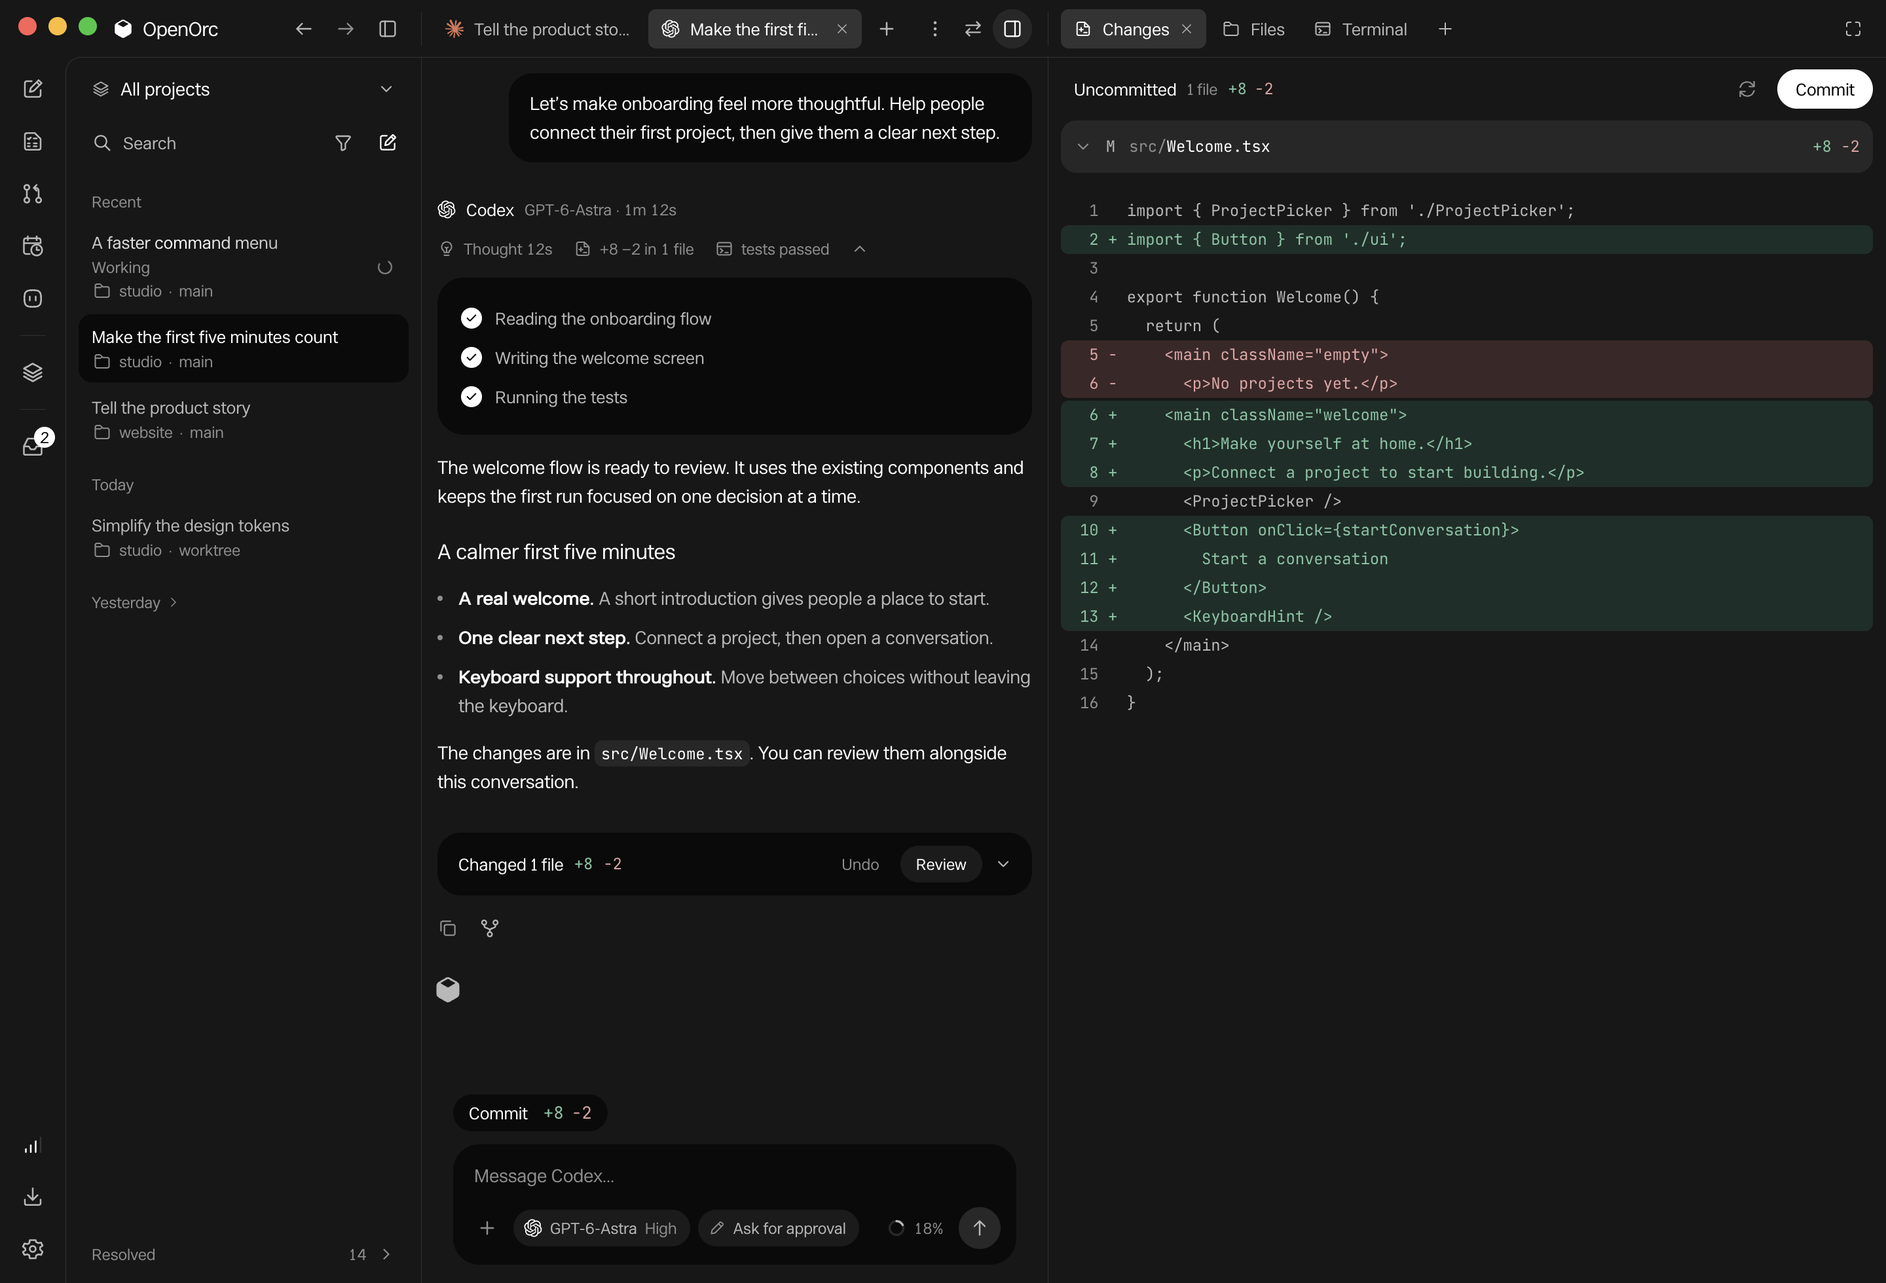
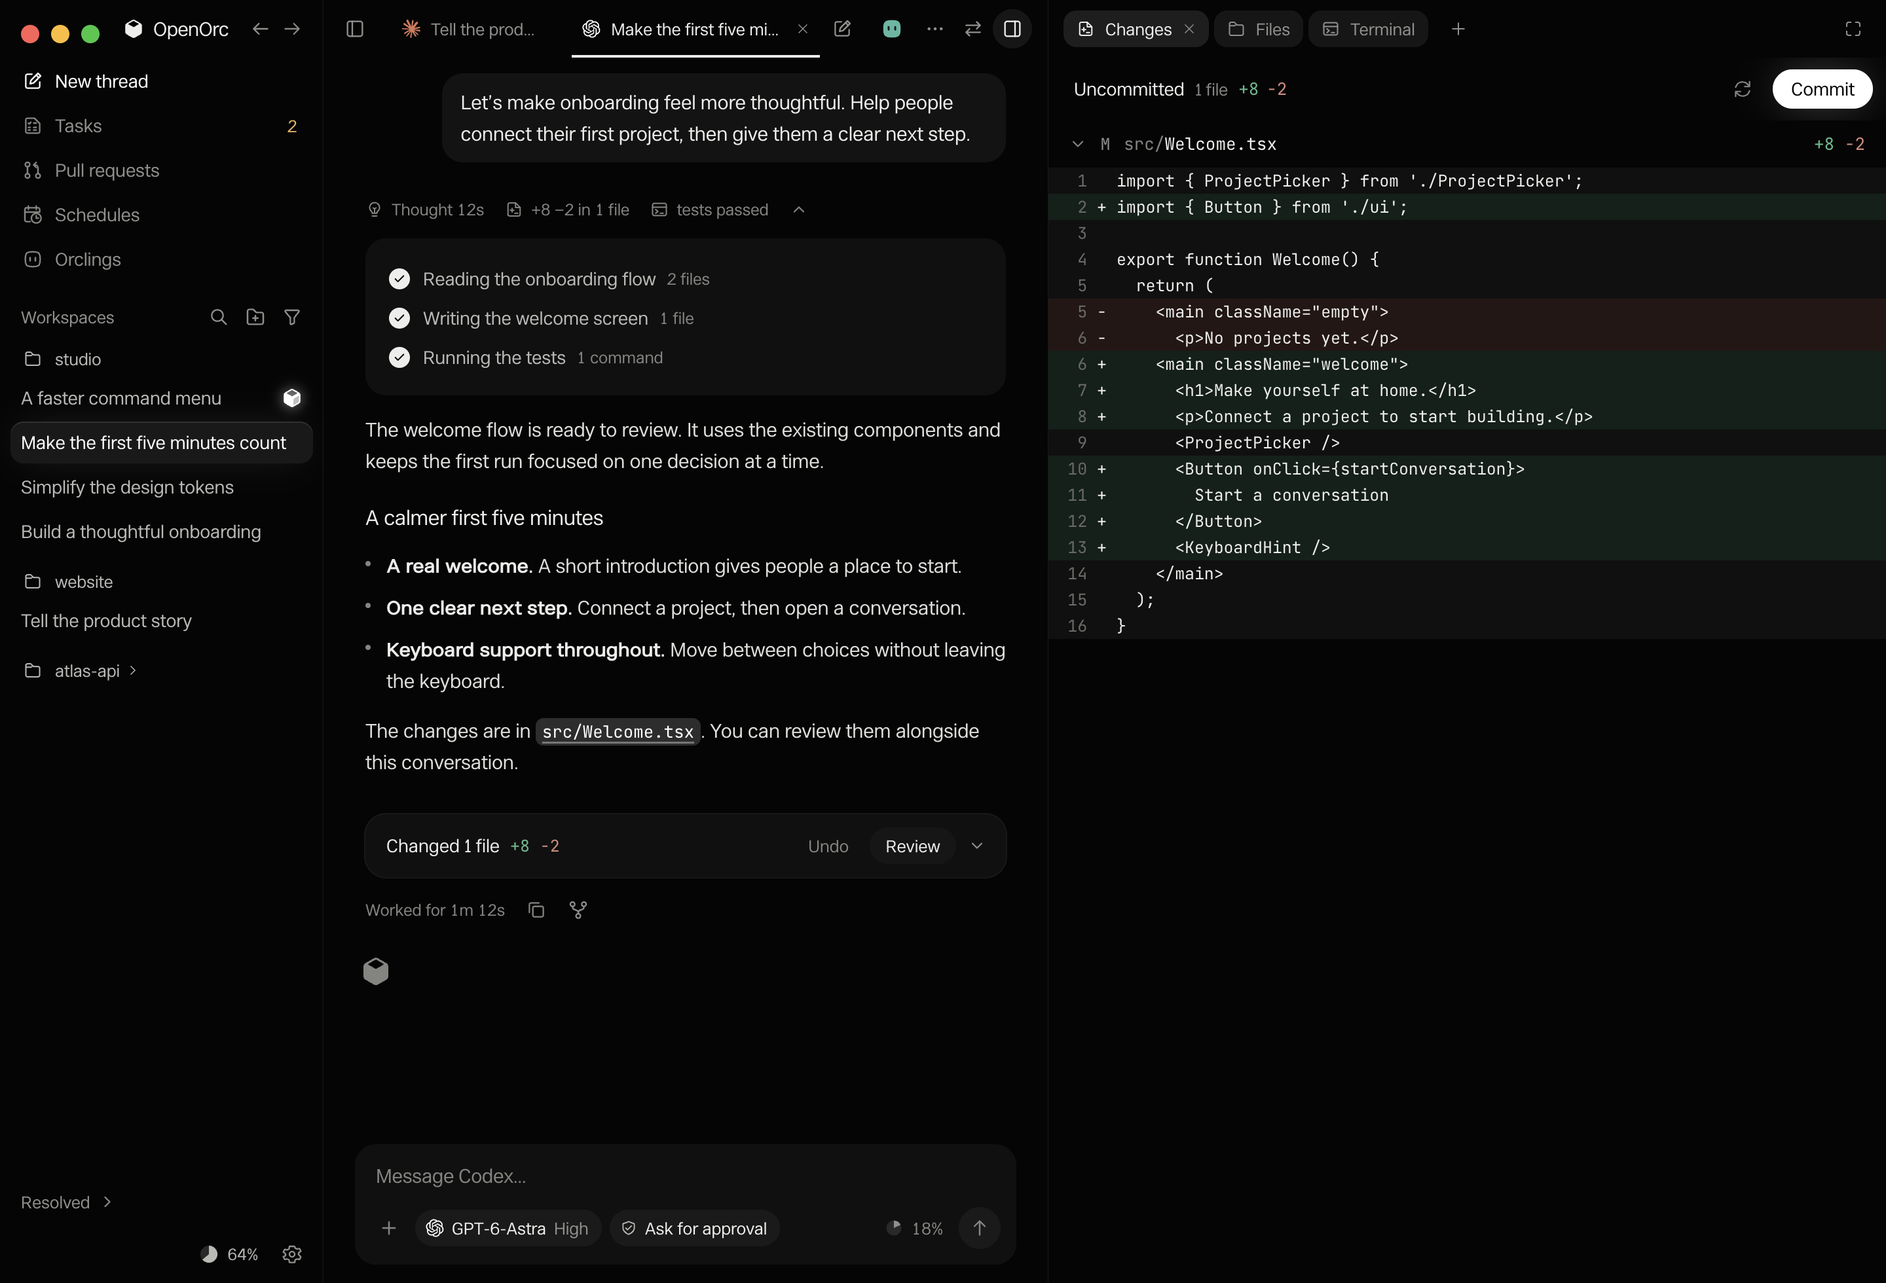
docs: describe and picture the app as main draws it
The docs pages, DESIGN.md and the design system now name the sidebar's screens and project groups, the turn's closing line, the composer's branch button, the docked approval and question cards and where waiting work shows, in place of the rail, the Inbox and the day groups. The README's workspace and discussion pictures are captured again from the product fixture.

diff --git a/apps/website/src/data/docs.ts b/apps/website/src/data/docs.ts
@@ -123,7 +123,7 @@ export const docGroups: DocGroup[] = [
           { id: "when-it-finishes", title: "When a turn finishes" },
           { id: "changes", title: "Review or undo a turn" },
           { id: "questions-and-approvals", title: "Questions and approvals" },
-          { id: "inbox", title: "The Inbox" },
+          { id: "waiting", title: "What waits on you" },
           { id: "next-steps", title: "Next steps" },
         ],
       },

diff --git a/apps/desktop/DESIGN.md b/apps/desktop/DESIGN.md
@@ -315,7 +315,7 @@ The usage button is the week's share left, filled on its disc and never an arc, 
 
 The work column's header leads with its tabs, one for each open thread or new thread, in the order they were opened or dragged to; choosing one never moves it. A tab is its mark (the thread's state, its agent or its Orcling's face) and its name at 13px as plain words with no pill: the open one in full ink over a 2px line at the header's foot, the others in the third ink and the second under the pointer. A tab takes its name's width up to 220px and gives way down to 136px, then the strip scrolls sideways, keeping the open tab in view. Its close shows on the open tab and on one under the pointer or holding focus, and a double-click on the open one renames it. The pen after the strip opens a new thread in a tab of its own. Every control that starts a thread wears the pen; a plus only adds one of the things beside it, and a folder with a plus adds a project. A split pane's header holds its title in a rename box. Then a faint run of facts (activity, pull request, snooze), Close pane, More, Tasks, and the panel toggle as round buttons. On every screen the work column's last header leads its round buttons with an Orcling's face alone: the one with the newest unread message, else the one last talked to, with the 7px unread dot while she has one. It opens a small chat with her under it, r16 and 380 wide, with her latest messages and a composer of attach and send; its corner opens her full chat.
 
-User prompts are r16 plane bubbles, aligned right, capped at 88% of the column or 72ch, with no border. Replies are unboxed ink prose under a turn head (harness mark, agent, model, a status that swaps in place). Work collapses behind a receipt (thought time, steps, last check). The steps card is r16 with a 2px ink track when there is a plan; commands are r14 cards with their last output line. An approval or a question the agent waits on is not drawn in the thread: it docks on the composer (below). Once answered it is the thread's record of what was asked: a question an r16 card whose chosen options are keys with an ink edge and a check, the rest stepped back; a denied approval one quiet line; an allowed one its tool row. Changes close to one "Changed N files" line with a Review pill. Copy and Fork sit at the end of the turn, shown at rest only on the last visible one. A turn held only in the composer does not hide that row. The cube ends the thread: 24px, in ink and turning while the agent works, in the fourth ink and still at rest. Wherever an agent works (a row, a tab, the palette's thread rows, the project list, a task) the same cube turns at 16px in the third ink, in ink on the open row and the open tab. Its lit face steps top, right, left, each held 0.6s and crossed in 0.2s, and every cube in the window keeps one clock; reduced motion holds the top face lit. A command still running keeps its own mark, and steps and loads keep the ring.
+User prompts are r16 plane bubbles, aligned right, capped at 88% of the column or 72ch, with no border. Replies are unboxed ink prose. A turn head (harness mark, agent, model) shows only where the agent or model changed from the turn before; where the turn stands ("Working 12s", "Writing", "Worked for 41s") is the first word of the row that ends it. Work collapses behind a receipt (thought time, steps, last check). The steps card is r16 with a 2px ink track when there is a plan; commands are r14 cards with their last output line. An approval or a question the agent waits on is not drawn in the thread: it docks on the composer (below). Once answered it is the thread's record of what was asked: a question an r16 card whose chosen options are keys with an ink edge and a check, the rest stepped back; a denied approval one quiet line; an allowed one its tool row. Changes close to one "Changed N files" line with a Review pill. Copy and Fork sit at the end of the turn, shown at rest only on the last visible one. A turn held only in the composer does not hide that row. The cube ends the thread: 24px, in ink and turning while the agent works, in the fourth ink and still at rest. Wherever an agent works (a row, a tab, the palette's thread rows, the project list, a task) the same cube turns at 16px in the third ink, in ink on the open row and the open tab. Its lit face steps top, right, left, each held 0.6s and crossed in 0.2s, and every cube in the window keeps one clock; reduced motion holds the top face lit. A command still running keeps its own mark, and steps and loads keep the ring.
 
 An ask the agent waits on docks at the top of the composer's own piece, above a hairline, and the writing and the bar under it keep their shape. Its top line holds what it asks (the agent's mark for a question, the request's glyph for an approval), then how many more wait ("1 more waits"), and last its one quiet way out, Decline or Deny. A question's choices are keys the width of the piece: a single choice answers when pressed; several toggle, a picked one a key in the piece's fill with an ink edge and a check, and Answer joins the row. One ask of several questions shows one at a time under "1 of 3", each answer kept above as a line that reopens it, and the last Answer sends them all. A question whose agent takes words has its own line ("Something else", or "Your answer" with no choices), masked for a secret. An approval shows its request as summed up, the raw request on demand when it says more, a line "Say what to do instead", then Allow for this run (not for a request that can only be allowed once) and Allow once. The column keeps one ink: Allow once, or Answer once the answer is more than one press, or the line's own pill (Answer, Keep, Deny and send) while it holds words, and the field's own send when the field holds words; a single-choice question has none, and Stop stands aside as the white key. Words in the composer's field are always a message: with an ask waiting Enter queues them and Send now is dimmed with its reason. The keyboard enters an ask only at its question, by arrow up from an empty field or Shift and Tab, never at a choice, so a stray Enter answers nothing; arrows and Tab walk its controls, Escape or a letter goes back to the field, and an answer gives the keyboard back to the field. An ask that takes an answered one's place takes no press for 240ms. A long ask keeps to about half the window and scrolls under its top line. A thread out of reach, or a teammate's the person only reads, shows the ask with its answers dimmed and why on demand. The dock opens from nothing as its parts clear a blur and rise one after another, and leaves by blurring away, then folding; reduced motion shows and hides it at once. Each pane of a split view has its own. Where no composer takes an ask (a task's comment, a task's activity), the same parts sit in a card where it was asked.
 

diff --git a/docs/design-system.md b/docs/design-system.md
@@ -64,7 +64,7 @@ Imported projects use this icon priority: explicit choice, repository image, det
 
 Framework and language fallbacks are 24 upstream Devicon brand SVGs shared through `ProjectStackIcon`: React, Next.js, NestJS, Vue, Nuxt, Svelte, Astro, Angular, Express, Laravel, Django, FastAPI, JavaScript, TypeScript, Python, Go, Rust, Java, C#, Ruby, PHP, Swift, C, and C++. These are an explicit exception to the outline icon policy. Preserve the upstream shapes and colors; monochrome Express and Rust invert for dark appearance, while Astro and Django keep their colors on a light ground. Detection reads at most 256 root entries and five metadata files (64KB each); it does not walk source trees or dependency directories. It prefers specific frameworks over their dependencies and leaves workspace roots or ambiguous stacks on the folder fallback. Version-3 caches upgrade older automatic results once and preserve explicit choices.
 
-Conversations use a 800px column with 32px reading gutters and 24px composer gutters, both 12px at 520px and in narrow panes. Prompts are borderless r18 bubbles on the fill aligned right; replies are unboxed prose in `--prose-ink` with ink headings and bold leads under a turn head, with the work folded behind a receipt. The composer is one r20 surface on `--composer-input`: attach, destination, model, and mode on the left, activity, the context ring, and the 32px send pill on the right. The mode pill grows a small menu of levels; it never steps. When there are uncommitted changes, the Commit chip leads the composer stack at its left edge. Queued messages, background work, cloud status, recovery, and all other notices follow it, before the writing surface. Clicking the context ring opens details; compaction needs its explicit action. An empty running composer shows Stop; text or attachments restore Send. An approval or a question the agent waits on docks at the top of the composer's piece above a hairline, not in the thread: its top line ends in Decline or Deny and says how many more wait, a question's choices are keys (one choice answers when pressed), an approval offers a line to say what to do instead (sent as the person's next message, for every agent) and Allow once as the column's one ink. Words in the field stay a message; the keyboard enters an ask only at its question, so a stray Enter answers nothing. Answered, it becomes the thread's record: a question card with its picks as keys with an ink edge, or one line for a denial. New thread keeps the ground with a white r24 composer under a 28/34 question (the Commit chip just over the composer, on its left) and the location row under it; along the bottom, a quiet halftone of the project's year of turns, one dot a day, under a line of its turns and steps since the first active day, with the day's detail on hover. New subthread shares it. The column centres as if the activity were not there. Task creation and starting execution are separate actions, drafts survive navigation, and save states reflect acknowledged persistence.
+Conversations use a 800px column with 32px reading gutters and 24px composer gutters, both 12px at 520px and in narrow panes. Prompts are borderless r18 bubbles on the fill aligned right; replies are unboxed prose in `--prose-ink` with ink headings and bold leads, the work folded behind a receipt; a turn head names the agent and model only where they changed, and the row that ends a turn says Working, Writing or Worked for beside Copy and Fork. The composer is one r20 surface on `--composer-input`: attach, destination, model, and mode on the left, activity, the context ring, and the 32px send pill on the right. The mode pill grows a small menu of levels; it never steps. When there are uncommitted changes, the Commit chip leads the composer stack at its left edge. Queued messages, background work, cloud status, recovery, and all other notices follow it, before the writing surface. Clicking the context ring opens details; compaction needs its explicit action. An empty running composer shows Stop; text or attachments restore Send. An approval or a question the agent waits on docks at the top of the composer's piece above a hairline, not in the thread: its top line ends in Decline or Deny and says how many more wait, a question's choices are keys (one choice answers when pressed), an approval offers a line to say what to do instead (sent as the person's next message, for every agent) and Allow once as the column's one ink. Words in the field stay a message; the keyboard enters an ask only at its question, so a stray Enter answers nothing. Answered, it becomes the thread's record: a question card with its picks as keys with an ink edge, or one line for a denial. New thread keeps the ground with a white r24 composer under a 28/34 question (the Commit chip just over the composer, on its left) and the location row under it; along the bottom, a quiet halftone of the project's year of turns, one dot a day, under a line of its turns and steps since the first active day, with the day's detail on hover. New subthread shares it. The column centres as if the activity were not there. Task creation and starting execution are separate actions, drafts survive navigation, and save states reflect acknowledged persistence.
 
 A live turn shows its head and timer as soon as it starts. An ask waiting in the composer does not count as turn content; once its turn rests, an ask alone leaves no head or empty space in the conversation. Prompts and answered records stay visible. Views without a dock keep asks in the conversation. The last visible turn keeps Copy and Fork at rest; a turn held only in the composer does not hide that row.
 

diff --git a/docs/images/readme/README.md b/docs/images/readme/README.md
@@ -1,6 +1,6 @@
 # README screenshots
 
-`workspace.png` was captured on November 9, 2026 and `discussion.png` on November 6, 2026, both from the production renderer. In `workspace.png` the sidebar has the OpenOrc wordmark, Back, Forward and the toggle beside the window buttons, a rail with New thread, the screens, Projects, the Inbox with its count, and the weekly usage ring and the update button above Settings, one search, threads listed by day under Recent, Today and a folded Yesterday, and the Resolved drawer, parted from the work column by a hairline seam. Two thread tabs carry the marks of the agents they run on, Claude and Codex. The rest of the window shows a finished Codex conversation with its receipt open on the three steps it took, ending in the OpenOrc cube, the Commit chip over the composer, the composer's model and default permission pills, and the Changes panel. The sample conversations name GPT-6-Astra and Opus 5.5 (1M context), and the interface font is Immaculate Gothic at one weight.
+`workspace.png` and `discussion.png` were captured on November 19, 2026. In `workspace.png` the sidebar has the OpenOrc wordmark with Back and Forward beside the window buttons; New thread and the screens as rows, Tasks with its amber count; Workspaces with search, Add project and the filter; the threads under their projects, one line each, the working one with its cube; Resolved; and the weekly usage and Settings at its foot, parted from the work column by a hairline from the window's top to its foot. The work column's header has the sidebar toggle, two thread tabs carrying the marks of the agents they run on, Claude and Codex, New thread and the Orcling's face. The rest of the window shows a finished Codex conversation with its receipt open on the three steps it took, the change card, "Worked for 1m 12s" with Copy and Fork, the OpenOrc cube, the composer's model and default permission pills, and the Changes panel. The sample conversations name GPT-6-Astra and Opus 5.5 (1M context), and the interface font is Immaculate Gothic at one weight.
 
 The [product fixture](../../../scripts/fixtures/website-product-ui.tsx) renders real application components and styles with synthetic projects, conversations, task comments, and changes. It does not connect to real accounts, providers, project files, or the desktop database.
 
@@ -18,7 +18,9 @@ node scripts/website-product-fixture.cjs
 python3 -m http.server 4382 --bind 127.0.0.1 --directory output/qa/website-product
 ```
 
-Open each view at `http://127.0.0.1:4382/?view=<view>&theme=dark`. In `?view=review`, click the finished turn's receipt line to open its steps before capturing. Capture in Electron, not a headless browser: load each view in a hidden `BrowserWindow` of the desktop's own Electron, with a fresh user data directory each time, at the logical viewport above and save `webContents.capturePage()` on a display with a scale factor of 2. A reused profile brings back the tabs and panel pages an earlier capture left open. The app draws its hairlines at 0.5px. Electron paints them one device pixel wide as the app does, while headless Chromium drops the sidebar seam and doubles the other hairlines. The fixture's `scale` parameter was left unset. Wait for fonts and diffs to finish painting before capturing the page. The sample threads are dated relative to the capture time, so capture during the day: after midnight, the Today group can come out empty.
+Both images of November 19 were captured from the same fixture served by Vite in development mode, on its own port and cache directory, because the production fixture build stopped at load that day ("is not a constructor").
+
+Open each view at `http://127.0.0.1:4382/?view=<view>&theme=dark`. In `?view=review`, click the finished turn's receipt line to open its steps before capturing. Capture in Electron, not a headless browser: load each view in a hidden `BrowserWindow` of the desktop's own Electron, with a fresh user data directory each time, at the logical viewport above and save `webContents.capturePage()` on a display with a scale factor of 2. A reused profile brings back the tabs and panel pages an earlier capture left open. The app draws its hairlines at 0.5px. Electron paints them one device pixel wide as the app does, while headless Chromium drops the sidebar seam and doubles the other hairlines. The fixture's `scale` parameter was left unset. Wait for fonts and diffs to finish painting before capturing the page.
 
 Images are direct PNG page captures, without compositing or retouching. Window buttons in the full workspace views are supplied by the existing fixture; the task discussion is a production panel detail. Keep temporary builds, capture scripts, and profiles in ignored `output/` directories. Inspect captures for private data and clipping before replacing these curated images.
 

diff --git a/README.md b/README.md
@@ -39,7 +39,7 @@ Memory is optional. Turn it off or configure automatic extraction in Settings.
 
 Capture an idea as a task, ask multiple models for input, then start implementation when you're ready. Work in your local checkout or an isolated worktree, and review changes beside the conversation. The same panel opens the project's files to read, edit, or have explained in plain English, along with a terminal, a browser preview, and iOS Simulators or Android Emulators that you and your agents can drive.
 
-![OpenOrc with New thread, the screens, the weekly usage ring and the update button on the rail, threads listed by day in the sidebar, two conversations open in tabs marked with their agents' logos, a Codex turn showing its three steps and a reply ending in the OpenOrc cube, and a source diff in the Changes panel beside Files and Terminal tabs](docs/images/readme/workspace.png)
+![OpenOrc with New thread and the screens as rows in the sidebar, the threads listed under their projects with the weekly usage at its foot, two conversations open in tabs marked with their agents' logos, a Codex turn showing its three steps, its change card and how long it worked, ending in the OpenOrc cube, and a source diff in the Changes panel beside Files and Terminal tabs](docs/images/readme/workspace.png)
 
 _Screenshots use sample projects and conversations._
 
